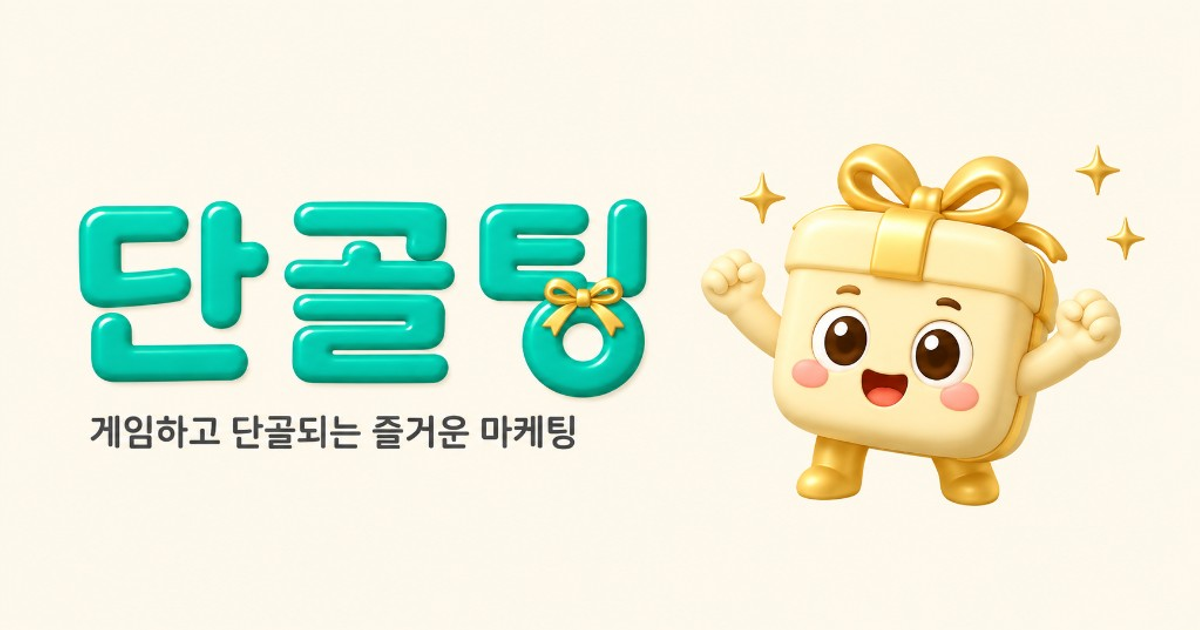
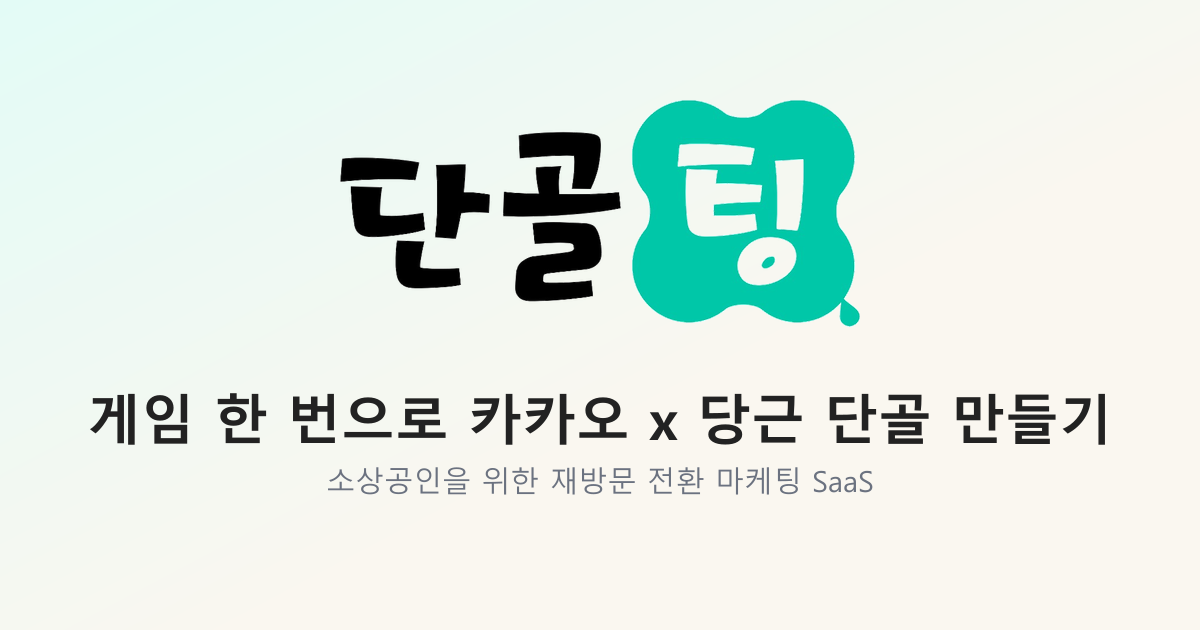
feat: SEO/AEO 최적화 1차 — 구조화데이터, /aeo 메타, llms.txt, 구글 서치콘솔 인증
- 랜딩에 Organization/SoftwareApplication/FAQPage(14문항) JSON-LD 추가
- /aeo 페이지를 서버 컴포넌트로 분리해 동적 메타태그 적용, sitemap 포함
- OG 대표 이미지(app/opengraph-image.png)를 새 로고 기준으로 재제작
- public/llms.txt 신규 — AI 검색엔진용 서비스 요약
- terms/privacy 페이지 구 브랜드명("단골마케팅") 정리
- 매장 공개페이지 사진 갤러리 alt 텍스트 채움, OG 이미지 폴백 추가
- 폰트 CDN preconnect 추가 + landing-v5.css 중복 폰트 @import 제거 (CWV)
- 구글 서치콘솔 소유 확인용 HTML 파일 추가

diff --git a/app/aeo/page.tsx b/app/aeo/page.tsx
@@ -1,67 +1,16 @@
-'use client'
+import type { Metadata } from 'next'
+import AeoPageClient from './AeoPageClient'
 
-import { useState } from 'react'
-import Link from 'next/link'
-import BrandLogo from '@/components/BrandLogo'
-import '@/components/landing-v5/landing-v5.css'
-import { AeoWaitlistModal } from '@/components/landing-v5/PricingModals'
-import { PRICING, formatWon } from '@/lib/landing-v5/config'
+export const metadata: Metadata = {
+  title: 'AEO마케팅 · 단골팅 — AI 검색에도 뜨는 우리 매장 홈페이지',
+  description:
+    '챗GPT, 퍼플렉시티 같은 AI 검색이 "우리 동네 맛집"을 물었을 때 매장이 답변에 등장하도록 만드는 홈페이지 제작 서비스. 출시 예정, 지금 알림 신청 가능.',
+  openGraph: {
+    title: 'AEO마케팅 · 단골팅',
+    description: 'AI 검색에도 우리 매장이 뜨게 만드는 홈페이지 제작 서비스 — 출시 알림 신청',
+  },
+}
 
-/**
- * "AEO 홈페이지 제작" 자리표시 페이지 — 헤더 햄버거 메뉴에서 진입.
- * 아직 정식 콘텐츠는 없고, 요금제 섹션에 이미 있는 AEO 카드 문구 + 출시 알림 신청
- * 폼(AeoWaitlistModal, 기존 aeo_waitlist 연동)만 재사용해 최소한의 완결된 화면으로 구성.
- */
-export default function AeoPlaceholderPage() {
-  const [waitlistOpen, setWaitlistOpen] = useState(false)
-  const aeo = PRICING.aeo
-
-  return (
-    <div className="landing-v5 flex min-h-screen flex-col">
-      <header className="border-b border-dg-line px-5 py-4">
-        <div className="mx-auto flex max-w-3xl items-center justify-between">
-          <Link href="/" className="flex items-center" aria-label="단골팅 홈">
-            <BrandLogo size="lg" />
-          </Link>
-          <Link href="/" className="text-[13px] font-semibold text-dg-ink-soft transition-colors hover:text-dg-ink">
-            ← 홈으로
-          </Link>
-        </div>
-      </header>
-
-      <main className="flex flex-1 items-center justify-center px-5 py-16">
-        <div className="w-full max-w-[440px] text-center">
-          <span
-            className="inline-block bg-dg-cream px-3 py-1 text-[12px] font-bold text-dg-gold-deep"
-            style={{ borderRadius: 999 }}
-          >
-            {aeo.launchNote}
-          </span>
-
-          <h1 className="mt-5 font-han text-[32px] text-dg-ink">{aeo.name}</h1>
-          <p className="mt-3 text-[16px] font-bold text-dg-ink-soft">{aeo.subheadline}</p>
-          <p className="mt-3 text-[14px] leading-relaxed text-dg-ink-soft">{aeo.description}</p>
-
-          <p className="mt-6 font-num text-[26px] font-bold text-dg-ink">
-            {formatWon(aeo.price)} <span className="text-[14px] font-normal text-dg-ink-soft">(1회) · 출시 예정</span>
-          </p>
-
-          <button
-            type="button"
-            onClick={() => setWaitlistOpen(true)}
-            className="mt-8 h-12 w-full bg-dg-ink text-[15px] font-bold text-white transition-opacity hover:opacity-90"
-            style={{ borderRadius: 6 }}
-          >
-            출시 알림 받기
-          </button>
-
-          <p className="mt-4 text-[12px] text-dg-ink-soft">
-            아직 준비 중인 페이지예요. 자세한 내용은 곧 채워드릴게요.
-          </p>
-        </div>
-      </main>
-
-      {waitlistOpen && <AeoWaitlistModal onClose={() => setWaitlistOpen(false)} />}
-    </div>
-  )
+export default function AeoPage() {
+  return <AeoPageClient />
 }

diff --git a/app/aeo/AeoPageClient.tsx b/app/aeo/AeoPageClient.tsx
@@ -1,0 +1,70 @@
+'use client'
+
+import { useState } from 'react'
+import Link from 'next/link'
+import BrandLogo from '@/components/BrandLogo'
+import '@/components/landing-v5/landing-v5.css'
+import { AeoWaitlistModal } from '@/components/landing-v5/PricingModals'
+import { PRICING, formatWon } from '@/lib/landing-v5/config'
+
+/**
+ * "AEO 홈페이지 제작" 자리표시 페이지 — 헤더 햄버거 메뉴에서 진입.
+ * 아직 정식 콘텐츠는 없고, 요금제 섹션에 이미 있는 AEO 카드 문구 + 출시 알림 신청
+ * 폼(AeoWaitlistModal, 기존 aeo_waitlist 연동)만 재사용해 최소한의 완결된 화면으로 구성.
+ *
+ * 메타태그(title/description/OG)는 서버 컴포넌트인 `page.tsx`에서 처리하므로
+ * 이 파일은 인터랙션(모달 상태)만 담당한다.
+ */
+export default function AeoPageClient() {
+  const [waitlistOpen, setWaitlistOpen] = useState(false)
+  const aeo = PRICING.aeo
+
+  return (
+    <div className="landing-v5 flex min-h-screen flex-col">
+      <header className="border-b border-dg-line px-5 py-4">
+        <div className="mx-auto flex max-w-3xl items-center justify-between">
+          <Link href="/" className="flex items-center" aria-label="단골팅 홈">
+            <BrandLogo size="lg" />
+          </Link>
+          <Link href="/" className="text-[13px] font-semibold text-dg-ink-soft transition-colors hover:text-dg-ink">
+            ← 홈으로
+          </Link>
+        </div>
+      </header>
+
+      <main className="flex flex-1 items-center justify-center px-5 py-16">
+        <div className="w-full max-w-[440px] text-center">
+          <span
+            className="inline-block bg-dg-cream px-3 py-1 text-[12px] font-bold text-dg-gold-deep"
+            style={{ borderRadius: 999 }}
+          >
+            {aeo.launchNote}
+          </span>
+
+          <h1 className="mt-5 font-han text-[32px] text-dg-ink">{aeo.name}</h1>
+          <p className="mt-3 text-[16px] font-bold text-dg-ink-soft">{aeo.subheadline}</p>
+          <p className="mt-3 text-[14px] leading-relaxed text-dg-ink-soft">{aeo.description}</p>
+
+          <p className="mt-6 font-num text-[26px] font-bold text-dg-ink">
+            {formatWon(aeo.price)} <span className="text-[14px] font-normal text-dg-ink-soft">(1회) · 출시 예정</span>
+          </p>
+
+          <button
+            type="button"
+            onClick={() => setWaitlistOpen(true)}
+            className="mt-8 h-12 w-full bg-dg-ink text-[15px] font-bold text-white transition-opacity hover:opacity-90"
+            style={{ borderRadius: 6 }}
+          >
+            출시 알림 받기
+          </button>
+
+          <p className="mt-4 text-[12px] text-dg-ink-soft">
+            아직 준비 중인 페이지예요. 자세한 내용은 곧 채워드릴게요.
+          </p>
+        </div>
+      </main>
+
+      {waitlistOpen && <AeoWaitlistModal onClose={() => setWaitlistOpen(false)} />}
+    </div>
+  )
+}

diff --git a/lib/seo/jsonld.ts b/lib/seo/jsonld.ts
@@ -1,0 +1,63 @@
+/**
+ * 랜딩(`/`) 전용 구조화 데이터(JSON-LD) 빌더.
+ * 회사 정보는 `components/landing-v5/Sections.tsx` 푸터에 실제로 노출되는 값과 동일하게 맞춘다
+ * (Organization 구조화 데이터가 화면 표시 정보와 어긋나면 안 됨).
+ */
+
+const SITE_URL = 'https://www.dgting.co.kr'
+
+export function buildOrganizationJsonLd() {
+  return {
+    '@context': 'https://schema.org',
+    '@type': 'Organization',
+    name: '단골팅',
+    alternateName: '아크웍스(ARK WORKS)',
+    url: SITE_URL,
+    logo: `${SITE_URL}/logo.png`,
+    description:
+      '소상공인을 위한 재방문 전환 마케팅 SaaS. QR 게임 이벤트로 카카오 채널 친구추가와 당근마켓 단골추가를 동시에 만든다.',
+    email: 'yangpro03@gmail.com',
+    telephone: '+82-1688-3893',
+    address: {
+      '@type': 'PostalAddress',
+      streetAddress: '2공단5로 52, 룩소르비즈타워 863호',
+      addressLocality: '천안시 서북구',
+      addressRegion: '충청남도',
+      addressCountry: 'KR',
+    },
+  }
+}
+
+export function buildSoftwareApplicationJsonLd() {
+  return {
+    '@context': 'https://schema.org',
+    '@type': 'SoftwareApplication',
+    name: '단골팅',
+    applicationCategory: 'BusinessApplication',
+    operatingSystem: 'Web',
+    url: SITE_URL,
+    description:
+      'QR 하나로 시작하는 게임형 재방문 마케팅 서비스. 손님이 QR을 찍고 게임에 참여하면 카카오 채널 친구추가·당근마켓 단골추가로 이어지고, 발급된 쿠폰으로 재방문을 유도한다.',
+    provider: {
+      '@type': 'Organization',
+      name: '단골팅',
+    },
+    // 가격은 프로모션 등으로 자주 바뀌어 구조화 데이터에 고정 offers를 넣지 않는다
+    // (실제 요금은 랜딩 요금제 섹션 참고 — 구조화 데이터와 화면 표시가 어긋나는 것을 방지).
+  }
+}
+
+export function buildFaqPageJsonLd(items: readonly { q: string; a: string }[]) {
+  return {
+    '@context': 'https://schema.org',
+    '@type': 'FAQPage',
+    mainEntity: items.map((item) => ({
+      '@type': 'Question',
+      name: item.q,
+      acceptedAnswer: {
+        '@type': 'Answer',
+        text: item.a,
+      },
+    })),
+  }
+}

diff --git a/app/layout.tsx b/app/layout.tsx
@@ -12,11 +12,19 @@ export const metadata: Metadata = {
     siteName: '단골팅',
     locale: 'ko_KR',
     type: 'website',
+    // OG 대표 이미지는 별도 지정 안 함 — app/opengraph-image.png 파일 컨벤션이 이미 있어서
+    // Next.js가 자동으로 og:image/twitter:image 태그를 생성한다 (여기서 images를 지정하면
+    // 파일 컨벤션과 충돌 없이 오히려 무시되는 걸 빌드로 확인함 — 파일 컨벤션이 항상 우선).
   },
   twitter: {
     card: 'summary_large_image',
     title: '단골팅 — 게임 한 번으로 카카오 × 당근 단골 만들기',
     description: '소상공인을 위한 재방문 전환 마케팅 SaaS. QR 게임 이벤트로 카카오 채널 친구추가와 당근 단골추가를 동시에.',
+  },
+  // 등록 시 실제 인증 코드로 채울 자리 — 지금은 비워둔 상태(값을 넣기 전까지 meta 태그 자체가 출력되지 않음)
+  verification: {
+    // google: '여기에 구글 서치콘솔에서 받은 인증 코드를 붙여넣으세요',
+    // other: { 'naver-site-verification': '여기에 네이버 서치어드바이저에서 받은 인증 코드를 붙여넣으세요' },
   },
 }
 
@@ -35,7 +43,19 @@ export default function RootLayout({
 }) {
   return (
     <html lang="ko">
-      <body>{children}</body>
+      <body>
+        {/*
+          CWV(Core Web Vitals) 개선: globals.css가 구글 폰트(JetBrains Mono, Black Han Sans)와
+          jsdelivr CDN 폰트(Pretendard, SUIT)를 @import로 불러오는데, 이 요청들은 렌더링을 막는다.
+          preconnect로 DNS·TLS 협상을 미리 끝내두면 첫 화면이 뜨는 시간이 줄어든다.
+          (폰트 자체를 next/font로 완전히 self-host 전환하는 건 Black Han Sans처럼 한글 전용으로
+          쓰는 폰트의 글리프 누락 위험이 있어 이번 라운드에서는 하지 않음)
+        */}
+        <link rel="preconnect" href="https://fonts.googleapis.com" />
+        <link rel="preconnect" href="https://fonts.gstatic.com" crossOrigin="anonymous" />
+        <link rel="preconnect" href="https://cdn.jsdelivr.net" />
+        {children}
+      </body>
     </html>
   )
 }

diff --git a/app/page.tsx b/app/page.tsx
@@ -1,4 +1,6 @@
 import LandingV5 from '@/components/landing-v5/LandingV5'
+import { FAQ_ITEMS } from '@/lib/landing-v5/config'
+import { buildFaqPageJsonLd, buildOrganizationJsonLd, buildSoftwareApplicationJsonLd } from '@/lib/seo/jsonld'
 
 export const metadata = {
   title: '단골팅 — 손님을 모으는 게 아니라, 다시 오게 만듭니다',
@@ -7,5 +9,23 @@ export const metadata = {
 }
 
 export default function HomePage() {
-  return <LandingV5 />
+  const jsonLdBlocks = [
+    buildOrganizationJsonLd(),
+    buildSoftwareApplicationJsonLd(),
+    buildFaqPageJsonLd(FAQ_ITEMS),
+  ]
+
+  return (
+    <>
+      {jsonLdBlocks.map((jsonLd, i) => (
+        <script
+          key={i}
+          type="application/ld+json"
+          // eslint-disable-next-line react/no-danger
+          dangerouslySetInnerHTML={{ __html: JSON.stringify(jsonLd) }}
+        />
+      ))}
+      <LandingV5 />
+    </>
+  )
 }

diff --git a/app/(mockup)/privacy/page.tsx b/app/(mockup)/privacy/page.tsx
@@ -1,7 +1,7 @@
 import Link from 'next/link'
 
 export const metadata = {
-  title: '개인정보처리방침 · 단골마케팅',
+  title: '개인정보처리방침 · 단골팅',
   description: '아크웍스(ARK WORKS) 개인정보처리방침',
 }
 
@@ -15,7 +15,7 @@ export default function PrivacyPage() {
             <div className="w-7 h-7 rounded-lg flex items-center justify-center text-sm bg-gradient-to-br from-yellow-400 to-orange-500">
               🥕
             </div>
-            <span className="font-bold text-white">단골마케팅</span>
+            <span className="font-bold text-white">단골팅</span>
           </Link>
           <Link href="/" className="text-sm text-gray-400 hover:text-white transition-colors">
             ← 홈으로

diff --git a/app/(mockup)/terms/page.tsx b/app/(mockup)/terms/page.tsx
@@ -1,7 +1,7 @@
 import Link from 'next/link'
 
 export const metadata = {
-  title: '이용약관 · 단골마케팅',
+  title: '이용약관 · 단골팅',
   description: '아크웍스(ARK WORKS) 서비스 이용약관',
 }
 
@@ -15,7 +15,7 @@ export default function TermsPage() {
             <div className="w-7 h-7 rounded-lg flex items-center justify-center text-sm bg-gradient-to-br from-yellow-400 to-orange-500">
               🥕
             </div>
-            <span className="font-bold text-white">단골마케팅</span>
+            <span className="font-bold text-white">단골팅</span>
           </Link>
           <Link href="/" className="text-sm text-gray-400 hover:text-white transition-colors">
             ← 홈으로

diff --git a/app/(customer)/b/[storeId]/BusinessPageView.tsx b/app/(customer)/b/[storeId]/BusinessPageView.tsx
@@ -162,8 +162,13 @@ export default function BusinessPageView({ data }: { data: BusinessPageData }) {
         {/* 매장 사진 */}
         {data.storePhotos.length > 0 && (
           <section className="grid grid-cols-3 gap-2">
-            {data.storePhotos.map((url) => (
-              <img key={url} src={url} alt="" className="aspect-square w-full rounded-xl object-cover" />
+            {data.storePhotos.map((url, i) => (
+              <img
+                key={url}
+                src={url}
+                alt={`${data.storeName} 매장 사진 ${i + 1}`}
+                className="aspect-square w-full rounded-xl object-cover"
+              />
             ))}
           </section>
         )}

diff --git a/app/sitemap.ts b/app/sitemap.ts
@@ -34,6 +34,7 @@ export default async function sitemap(): Promise<MetadataRoute.Sitemap> {
     { url: BASE_URL, changeFrequency: 'weekly', priority: 1 },
     { url: `${BASE_URL}/terms`, changeFrequency: 'yearly', priority: 0.2 },
     { url: `${BASE_URL}/privacy`, changeFrequency: 'yearly', priority: 0.2 },
+    { url: `${BASE_URL}/aeo`, changeFrequency: 'monthly', priority: 0.3 },
     // 공개 가이드만 포함 — /guides/advertiser는 로그인 필요라 제외(robots.ts에서도 disallow)
     { url: `${BASE_URL}/guides`, changeFrequency: 'monthly', priority: 0.4 },
     { url: `${BASE_URL}/guides/getting-started`, changeFrequency: 'monthly', priority: 0.4 },

diff --git a/app/(customer)/b/[storeId]/page.tsx b/app/(customer)/b/[storeId]/page.tsx
@@ -130,7 +130,9 @@ export async function generateMetadata({ params }: Props): Promise<Metadata> {
       title,
       description,
       url: `https://www.dgting.co.kr/b/${storeId}`,
-      images: data.coverUrl ? [data.coverUrl] : data.logoUrl ? [data.logoUrl] : undefined,
+      // 매장이 커버/로고를 아직 안 올렸으면 SNS 공유 시 미리보기가 텅 비어 보이므로
+      // 단골팅 기본 대표 이미지(app/opengraph-image.png 파일 컨벤션 경로)로 대체한다.
+      images: [data.coverUrl ?? data.logoUrl ?? 'https://www.dgting.co.kr/opengraph-image.png'],
       type: 'website',
     },
   }

diff --git a/components/landing-v5/landing-v5.css b/components/landing-v5/landing-v5.css
@@ -1,5 +1,5 @@
-@import url("https://fonts.googleapis.com/css2?family=Black+Han+Sans&family=JetBrains+Mono:wght@400;500;700&display=swap");
-@import url("https://cdn.jsdelivr.net/gh/sun-typeface/SUIT@2/fonts/variable/woff2/SUIT-Variable.css");
+/* 폰트 @import는 app/globals.css에서 전역으로 이미 로드하므로 여기서 중복 요청하지 않는다
+   (동일 CDN URL을 두 CSS 파일에서 각각 @import하면 렌더링 차단 체인이 중복 발생 — CWV 저하 원인). */
 
 .landing-v5 {
   --green: #00c7a7;

diff --git a/public/google330c542081c6edbf.html b/public/google330c542081c6edbf.html
@@ -1,0 +1,1 @@
+google-site-verification: google330c542081c6edbf.html
